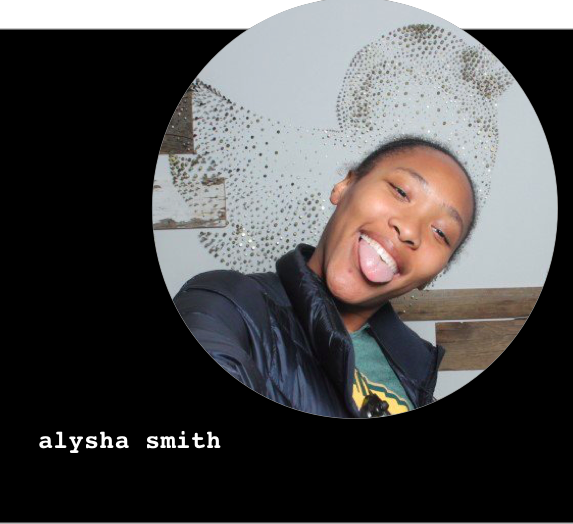
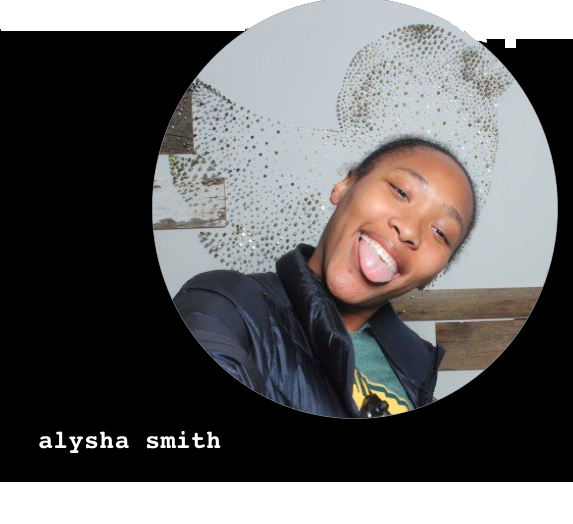
aboutme updated

Changed region(s): [[0.0, 0.916, 1.0, 1.0], [0.801, 0.0305, 1.0, 0.0916], [0.0, 0.0305, 0.4154, 0.0611]]

diff --git a/aboutme.html b/aboutme.html
@@ -6,15 +6,17 @@
 
     <p><img src= "logo.png" style="width:150px;height:80px;"><strong>a blog within a blog.</strong> </p>
     <p><strong><a href="#">home</a> <a href="#">creators</a> <a href="#">about us</a> <a href="#">account</a></strong></p>
-  </head>
-  <body>
+
+
 
     <style>
+    body{
+      background-color:black;
+    }
     {
        box-sizing: border-box;
 
    }
-   
 
    .column {
 
@@ -42,7 +44,7 @@
 
    <body>
 
-    <center><h1 style="font-size: 35px;font-family:courier;">meet the team.</h1>
+    <center><h1 style="font-size: 30px:font-family:courier;">meet the team.</h1>
 
    <div class="pics">
       <div><img src="s.png" alt="Mountains" class="row column"style="width:340px;height:320px;"></div>
@@ -51,8 +53,8 @@
       <div><img src="l.png" alt="Snow" class="row column"style="width:340px;height:320px;"></div>
      </div>
 
-    <div><img src="mission2.png" alt="Mountains" class="row column"style="width:1000px;height:500px;">
-    <div><img src="gif.gif" alt="Snow" class="row column"style="width:390px;height:500px;"></div>
+    <div><img src="mission2.png" alt="Mountains" class="row column"style="width:950px;height:500px;">
+    <div><img src="ich.gif" alt="Snow" class="row column"style="width:410px;height:450px;"></div>
 
     <div><img src="contact.png" alt="Mountains" style="width:100%;height:100%;"></div>
 
@@ -60,7 +62,5 @@
 
     </div>
    </body>
-   </html>
 
-  </body>
 </html>
